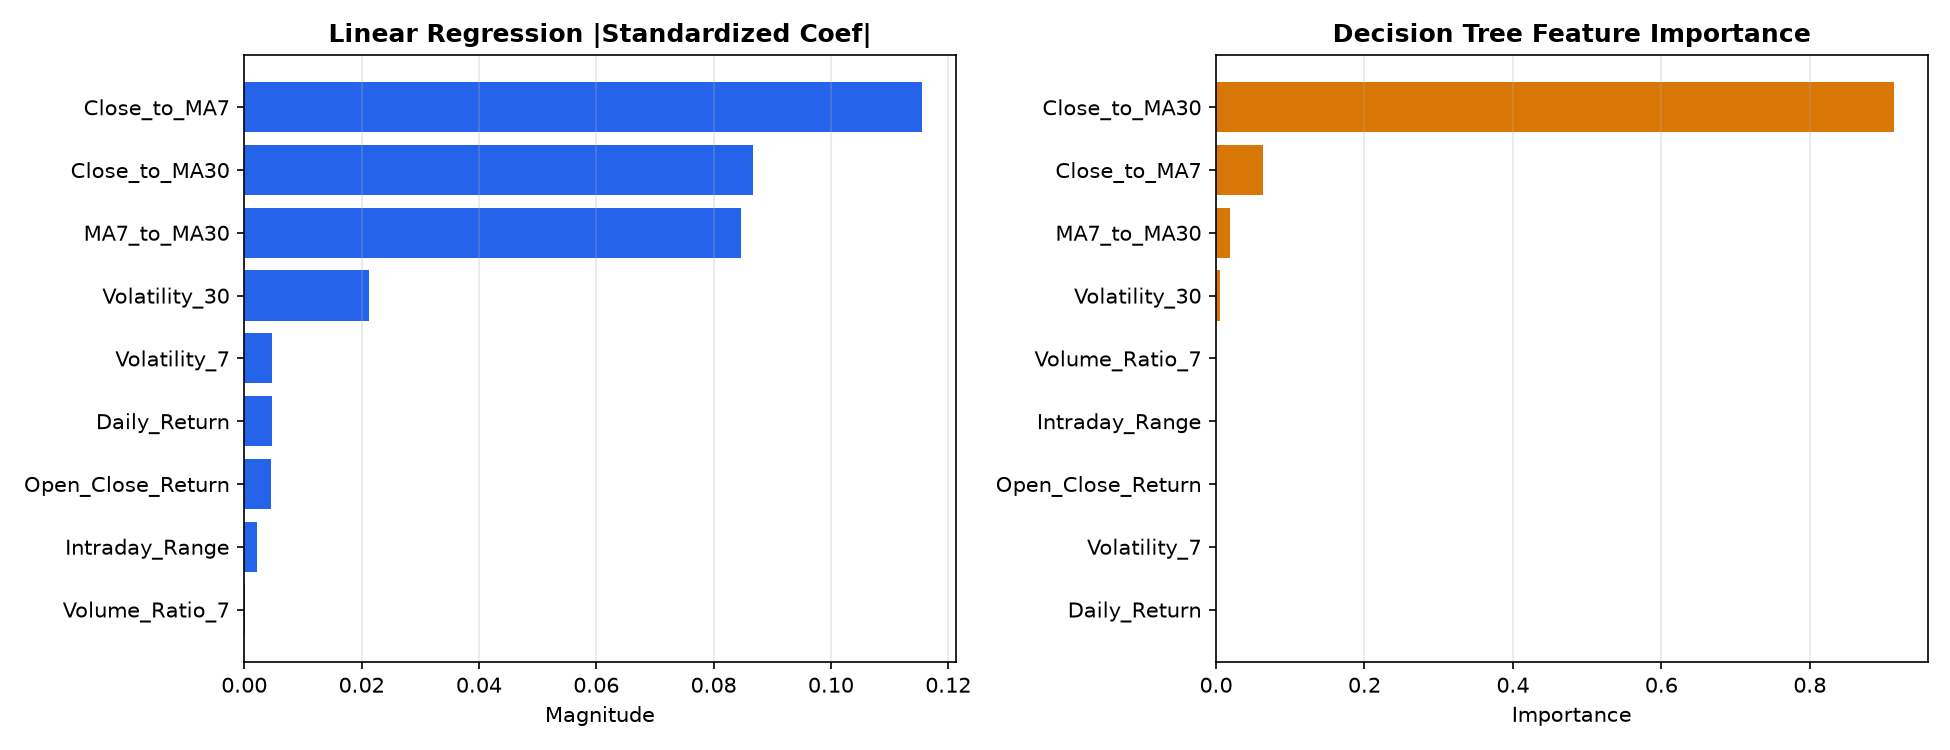
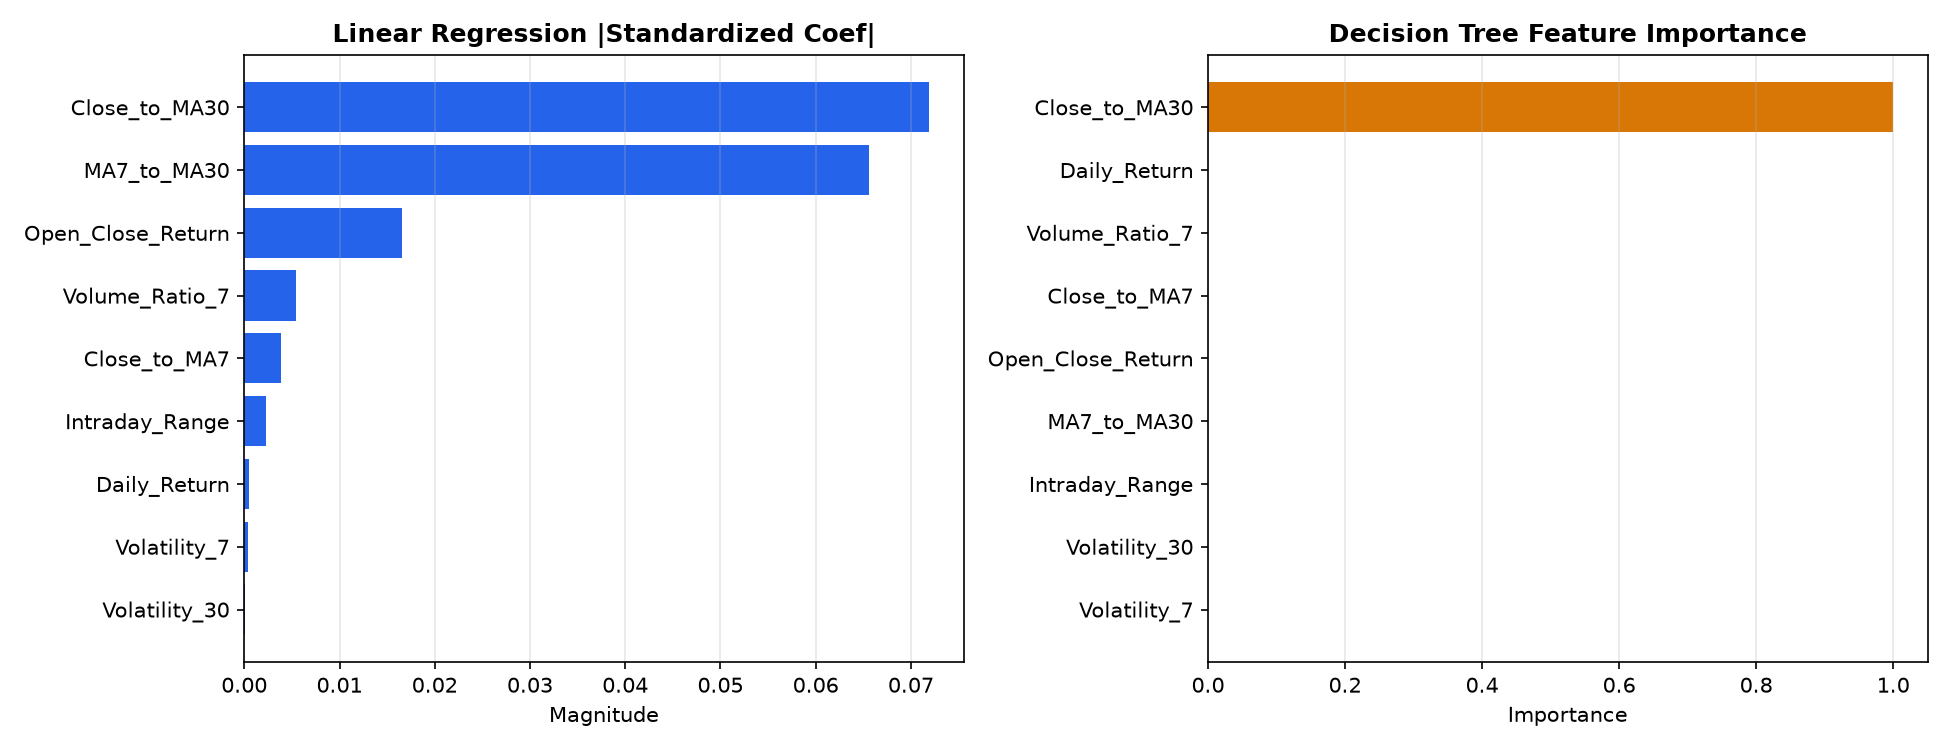
Refresh global benchmark results and date parsing
Update benchmark metrics, figures, and README results for the 996-stock run. Parse common date formats explicitly when ingesting stock CSVs.

diff --git a/src/data_ingestion.py b/src/data_ingestion.py
@@ -22,7 +22,14 @@ def load_single_stock(file_path: Path) -> Optional[pd.DataFrame]:
         return None
 
     df = df[REQUIRED_COLUMNS].copy()
-    df["Date"] = pd.to_datetime(df["Date"], format="mixed", dayfirst=True, errors="coerce")
+    raw_dates = df["Date"].astype(str).str.strip()
+    parsed_dates = None
+    for fmt in ("%Y-%m-%d", "%d-%m-%Y", "%m-%d-%Y", "%Y/%m/%d", "%d/%m/%Y", "%m/%d/%Y"):
+        attempt = pd.to_datetime(raw_dates, format=fmt, errors="coerce")
+        if attempt.notna().mean() > 0.95:
+            parsed_dates = attempt
+            break
+    df["Date"] = parsed_dates if parsed_dates is not None else pd.to_datetime(raw_dates, errors="coerce")
     df = df.dropna(subset=["Date"]).sort_values("Date").drop_duplicates(subset=["Date"])
 
     for col in ["Open", "High", "Low", "Close", "Volume"]:

diff --git a/README.md b/README.md
@@ -59,6 +59,7 @@ stock-price-regression-ml/
 
 - Plots the full historical timeline (`Close, MA_7, MA_30`) alongside the model evaluation table.
 ---
+
 ## Data Storage Overview
 When `python -m src.train` runs, the combined multi-stock dataset is saved to:
 
@@ -79,8 +80,7 @@ pip install -r requirements.txt
 ```
 
 ### 2. Add Your Stock CSV Files
-- Place up to 1,000+ Yahoo Finance-format CSV files (`Date, Open, High, Low, Close, Volume`) inside `data/raw/`. Each filename (e.g., `AAPL.csv`, `IOT.csv`) is automatically parsed as the company ticker.
-- (Optional) Place `metadata_stocks.csv` in `data/metadata_stocks.csv` (outside `data/raw/`) to enable full company names and Exchange/Currency/Type badges in the UI.
+Place up to 1,000+ Yahoo Finance-format CSV files (`Date, Open, High, Low, Close, Volume`) inside `data/raw/`. Each filename (e.g., `AAPL.csv`, `IOT.csv`) is automatically parsed as the company ticker.
 
 ### 3. Run the Training & Evaluation Pipeline
 ```bash
@@ -105,14 +105,17 @@ pytest
 ```
 
 ---
+## Benchmark Results (996-Stock Global Run)
 
-## Sample Benchmark Results (`IOT.csv` Single-Stock Baseline)
+Trained on **996 valid equities** (**5,890,747 raw rows** → **5,829,532 engineered rows**; 4 tickers skipped for having fewer than 40 valid rows: `HKD`, `HLN`, `INTR`, `PSNYW`).
 
 | Model | CV MAE (Return) | Test MAE ($) | Test MSE ($²) | Test RMSE ($) | Test R² |
 | :--- | :---: | :---: | :---: | :---: | :---: |
-| Naive Baseline (`Close_t`) | — | 0.4815 | 0.3144 | 0.5607 | 0.7471 |
-| Decision Tree Regressor | 0.0542 | 0.8725 | 0.9832 | 0.9916 | 0.2091 |
-| Linear Regression | 0.0767 | 0.8849 | 1.0388 | 1.0192 | 0.1643 |
-| Polynomial Regression (Deg 2) | 0.0662 | 1.0379 | 1.4490 | 1.2037 | -0.1657 |
+| Naive Baseline (`Close_t`) | — | 1.2992 | 10.7449 | 3.2779 | 0.9992 |
+| Decision Tree Regressor | 0.0170 | 1.3015 | 13.5673 | 3.6834 | 0.9990 |
+| Linear Regression | 0.0170 | 2.1234 | 27.6515 | 5.2585 | 0.9980 |
+| Polynomial Regression (Deg 2) | 0.0984 | 5.5484 | 722.3737 | 26.8770 | 0.9485 |
 
-See `reports/model_evaluation_report.md` for a detailed breakdown of feature importance, regime shift, and short-term forecasting limitations.
+**Best ML Model:** `Decision Tree Regressor` (`Test MAE = $1.3015`, `Test R² = 0.9990`), tracking within **0.18%** of the Naive Persistence Baseline's MAE across ~1.17M out-of-sample test rows.
+
+See `reports/model_evaluation_report.md` for detailed error analysis, feature importance findings, and short-term forecasting recommendations.
